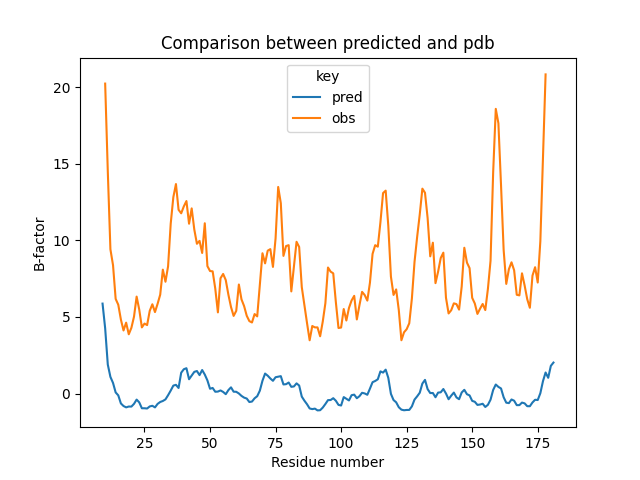
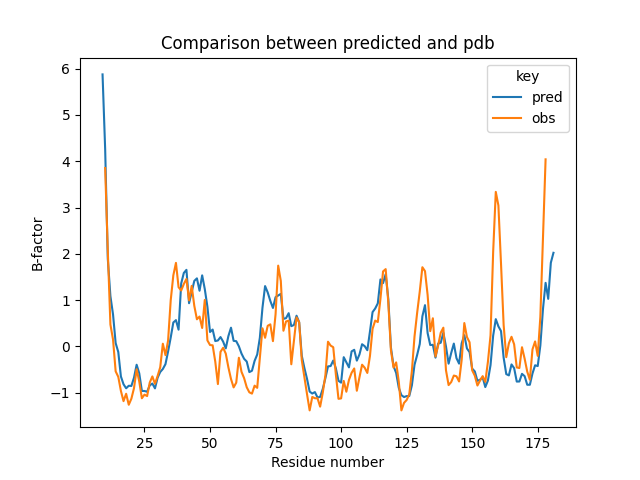
normalized bfactors for assessment

diff --git a/assessment/pdb/assess.py b/assessment/pdb/assess.py
@@ -5,20 +5,34 @@ from Bio.SeqUtils import IUPACData
 import seaborn as sns
 import matplotlib.pyplot as plt
 import pandas as pd
+import numpy as np
 
 
-## obtain beta factors from prediction:
+
+## beta factors from prediction ##
 prediction = pd.read_csv("O08989_pred_out.txt", skiprows=1, sep="\t", header=None)
 prediction = prediction[[0, 2]]
 prediction.columns = ['position', 'bfactor']
 prediction = prediction.assign(key="pred")
-## prediction[0]: residue position
-## prediction[2]: bfactor
-#
-## obtain beta factors from pdb
+
+
+## beta factors from pdb ##
 parser=PDB.PDBParser()
 structure = parser.get_structure("1x1r", "1x1r.pdb")
 structure = structure[0]["A"]
+
+### NORMALIZE BFACTORS
+bfactors = list()
+for residue in structure.get_residues():
+    if "CA" in residue:
+        bfactors.append(residue['CA'].get_bfactor())
+bf_mean = np.mean(bfactors)
+bf_sd = np.std(bfactors)
+for residue in structure.get_residues():
+    if "CA" in residue:
+        residue['CA'].set_bfactor((residue['CA'].get_bfactor() - bf_mean)/bf_sd)
+
+### get bfactors
 obs_data = []
 for residue in structure.get_residues():
     if "CA" in residue:
@@ -29,6 +43,7 @@ for residue in structure.get_residues():
 observed = pd.DataFrame(obs_data, columns=['position', 'bfactor'])
 observed = observed.assign(key="obs")
 
+### plot data ###
 data = pd.concat([prediction, observed], axis=0, ignore_index=True)
 
 data2 = observed.merge(prediction, on="position")
